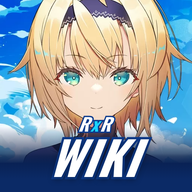
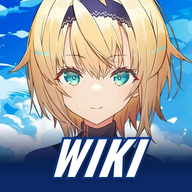
アプリアイコンを「WIKI」だけの案にする
Claude-Session: https://claude.ai/code/session_01N1eAzdvEhM9HvqUc1xMepk

Changed region(s): [[0.4062, 0.5938, 0.625, 0.7188]]

diff --git a/images/app/icon-source-b.html b/images/app/icon-source-b.html
@@ -7,4 +7,4 @@ html,body{margin:0}
 .w{position:absolute;z-index:2;left:0;right:0;bottom:34px;text-align:center;color:#fff;font-weight:700;font-style:italic;font-size:124px;line-height:1;letter-spacing:2px;transform:skewX(-8deg);-webkit-text-stroke:12px #0d3b8c;paint-order:stroke fill;text-shadow:0 6px 18px rgba(0,0,0,.45)}
 .r{position:absolute;z-index:2;left:0;right:0;text-align:center;bottom:158px;letter-spacing:4px;color:#fff;font-weight:700;font-style:italic;font-size:48px;line-height:1;transform:skewX(-8deg);-webkit-text-stroke:7px #0d3b8c;paint-order:stroke fill}
 .r span{color:#19d3ff}
-</style></head><body><div class="ic" id="ic"><div class="w">WIKI</div></div></body></html>
+</style></head><body><div class="ic" id="ic"><div class="r">R<span>x</span>R</div><div class="w">WIKI</div></div></body></html>

diff --git a/images/app/icon-source.html b/images/app/icon-source.html
@@ -7,4 +7,4 @@ html,body{margin:0}
 .w{position:absolute;z-index:2;left:0;right:0;bottom:34px;text-align:center;color:#fff;font-weight:700;font-style:italic;font-size:124px;line-height:1;letter-spacing:2px;transform:skewX(-8deg);-webkit-text-stroke:12px #0d3b8c;paint-order:stroke fill;text-shadow:0 6px 18px rgba(0,0,0,.45)}
 .r{position:absolute;z-index:2;left:0;right:0;text-align:center;bottom:158px;letter-spacing:4px;color:#fff;font-weight:700;font-style:italic;font-size:48px;line-height:1;transform:skewX(-8deg);-webkit-text-stroke:7px #0d3b8c;paint-order:stroke fill}
 .r span{color:#19d3ff}
-</style></head><body><div class="ic" id="ic"><div class="r">R<span>x</span>R</div><div class="w">WIKI</div></div></body></html>
+</style></head><body><div class="ic" id="ic"><div class="w">WIKI</div></div></body></html>

diff --git a/CLAUDE.md b/CLAUDE.md
@@ -15,7 +15,7 @@
   - babel: `バベル種類` + `階層` が識別子。`攻略のコツ`（旧 `ポイント`。Firestore に古い列名が残っていれば管理画面が自動で付け替える＝js/admin.js の RENAMES）。`解析データ` は1行1効果、`【味方】`などの見出し行で区切る。`おすすめキャラID` はカンマ区切りのキャラID。
   - teams（編成例）: `バベル種類`+`階層`+`編成名` が識別子。`メンバー` は1行1人「キャラID|星|スクリプト名」（最大6人）、`コメント`。管理画面のバベル編集画面か「編成例」で編集し、公開サイトは階層ページに表示。星の下限はキャラの `レアリティ`（R=★1・SR=★2・SSR=★3）。予備は data/teams.json。
 - `data/images.json` … 画像の対応表。`thumbs`/`banners`（キャラID→パス）、`sthumbs`/`sfull`（スクリプト名→パス）、`icons`（属性・ロール・階級・騎士団名→パス）、`hero`。
-- ホーム画面に追加：`manifest.webmanifest` と `images/app/`（icon-192/512・apple-touch-icon・favicon-32。元デザインは images/app/icon-source.html（キャラの顔イラスト face.webp に「RxR」「WIKI」。別案：b＝WIKI だけ、c＝文字だけの斜め RxR）を Chromium で 512px に撮って縮小）。ホームの「📲 ホーム画面に追加」で Android/PC はインストール、iPhone は手順を表示。
+- ホーム画面に追加：`manifest.webmanifest` と `images/app/`（icon-192/512・apple-touch-icon・favicon-32。元デザインは images/app/icon-source.html（キャラの顔イラスト face.webp に「WIKI」。別案：b＝RxR＋WIKI、c＝文字だけの斜め RxR）を Chromium で 512px に撮って縮小）。ホームの「📲 ホーム画面に追加」で Android/PC はインストール、iPhone は手順を表示。
 - `images/` … Web用に縮小した画像（元画像は RxRDBbot/images）。サムネイルは 176px 正方形 webp。
 
 ## Firebase（プロジェクト my-log-vh3o3b / 表示名 RxRbabelDB、Spark プラン）
